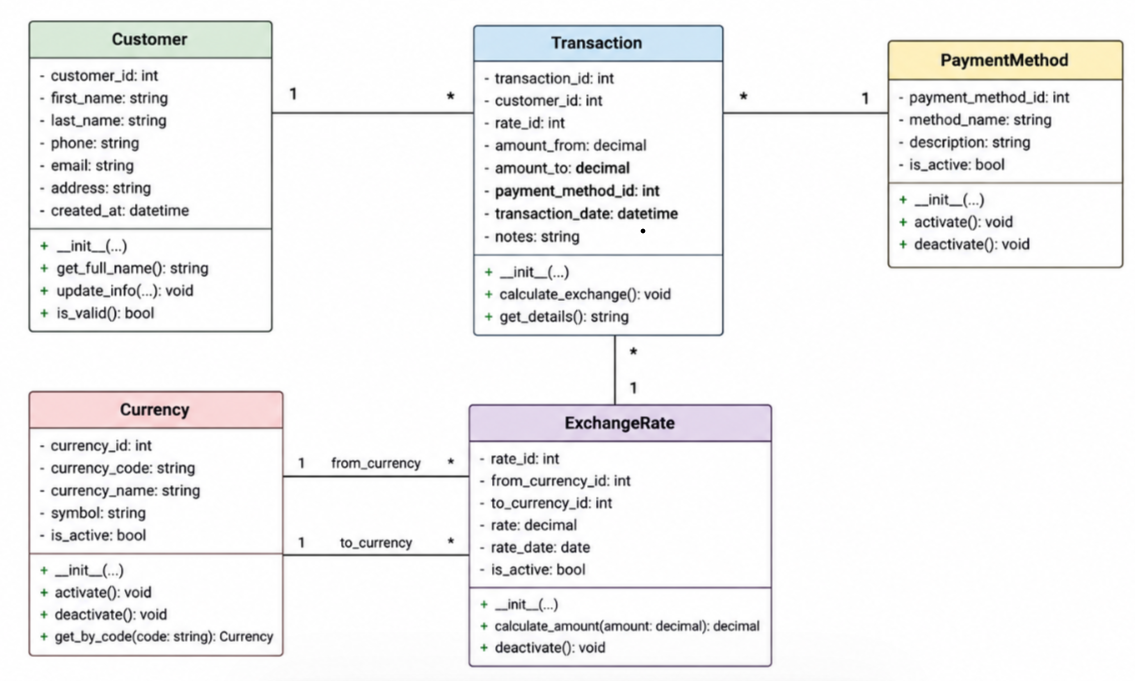
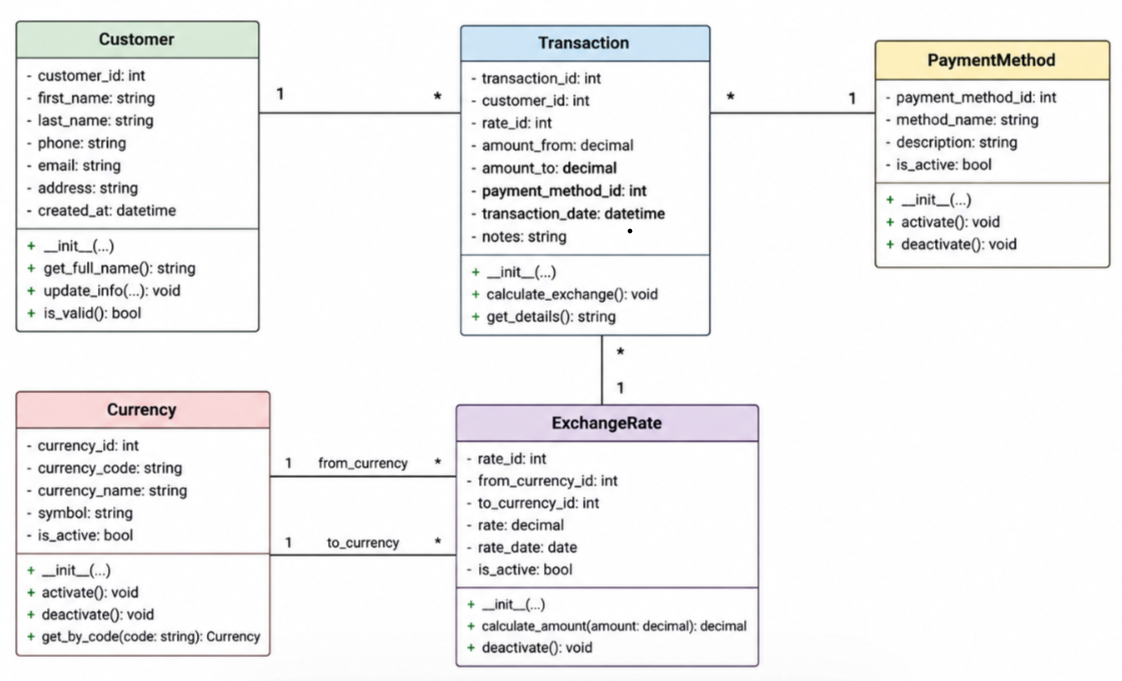
W4A3_Exchange_currency_project

diff --git a/W4A3_Exchange_currency_project/README.md b/W4A3_Exchange_currency_project/README.md
@@ -10,7 +10,7 @@ One class diagram is sufficient because the project focuses on the main business
 
 The class diagram represents the object-oriented design of the Money Exchange System.
 
-It is based on the project scope and the use cases from the W3-A5 project, including:
+It is based on the project scope and the use cases from the W4-A3 project, including:
 
 - Login
 - View Exchange Rates
